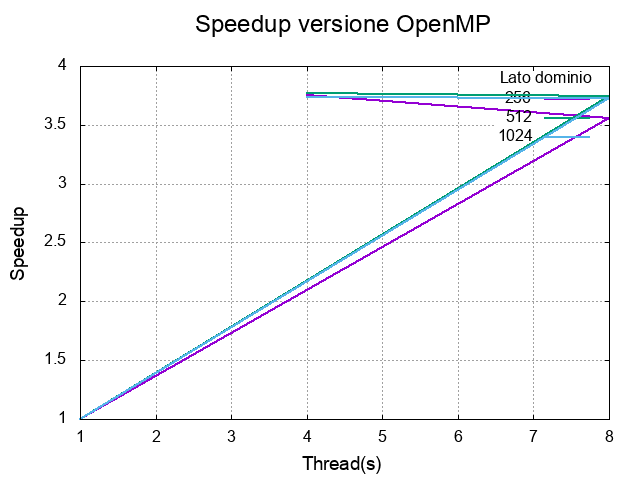
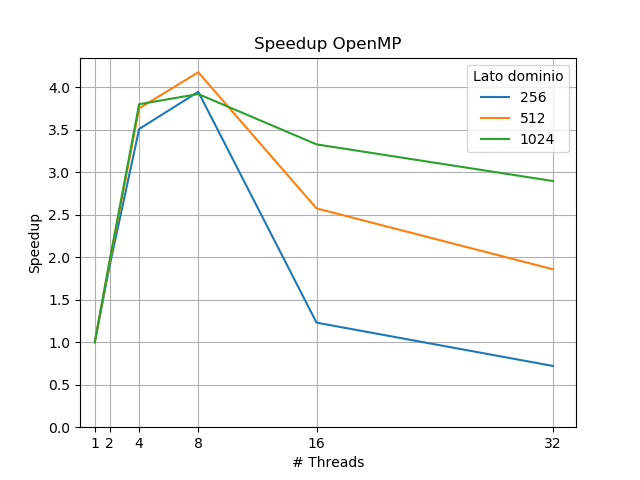
performance evaluation: refactoring; create plot script and graphs

diff --git a/project/src/hpc-perf-evaluation.py b/project/src/hpc-perf-evaluation.py
@@ -8,39 +8,39 @@ logging.basicConfig(level=logging.INFO)
 # executable variables
 exe_name = "omp-earthquake"
 steps = 100000
-# matrix_sides = [256, 512, 1024]
-matrix_sides = [256]
+matrix_sides = [256, 512, 1024]
+# matrix_sides = [256]
 
 # [1, 2, 4, 8, 16, 32, 64] threads used
-# threads = list(2**x for x in range(0,6))
-threads = [1, 8]
+threads = list(2**x for x in range(0, 6))
+# threads = [1, 8]
 
 # run the simulation N times and take the average execution time
-total_run = 2
+total_run = 5
 
 compute_weak = True
 weak_psize = 256
 
 # csv info
-timings_filename = "graphs/data/omp-timings-py.dat"
-speedup_filename = "graphs/data/omp-simulation-py.dat"
-strong_filename = "graphs/data/omp-strong-py.dat"
-weak_filename = "graphs/data/omp-weak-py.dat"
+timings_filename = "./data/omp-timings-py.csv"
+speedup_filename = "./data/omp-speedup-py.csv"
+strong_filename = "./data/omp-strong-py.csv"
+weak_filename = "./data/omp-weak-py.csv"
 
 
 def compute_weak_scaling():
     logging.info("###################### WEAK SCALING #######################")
-    for i in range(1, threads[len(threads) - 1] + 1):
+    for thread in range(1, 17):
         avg_exe_time = 0
         for k in range(1, total_run + 1):
             out_file = "/dev/null"
-            res_file = "res_weak{}_{}".format(i, k)
+            res_file = "./data/res_weak{}_{}".format(thread, k)
             # e(l($N0 * $N0 * $N0 * $p)/3)
-            p_size_weak = round(((weak_psize**3) * i)**(1. / 3.), 4)
-            logging.info("run #{}: L{}, {} thread".format(k, p_size_weak, i))
-            res_file = "res_weak{}_{}".format(i, k)
+            p_size_weak = round(weak_psize * (thread**(1. / 3.)), 4)
+            logging.info("run #{}: L{}, {} thread".format(
+                k, p_size_weak, thread))
             os.system("OMP_NUM_THREADS={} ./{} {} {} > {} 2>{}".format(
-                i, exe_name, steps, p_size_weak, out_file, res_file))
+                thread, exe_name, steps, p_size_weak, out_file, res_file))
             with open(res_file) as f:
                 for line in f:
                     if "parallel" in line:
@@ -51,24 +51,35 @@ def compute_weak_scaling():
                             k, avg_exe_time))
         avg_exe_time /= total_run
         logging.info("avg_exe_time = {}".format(avg_exe_time))
-        if i == 1:
+        if thread == 1:
             t_serial = avg_exe_time
             logging.info("t_serial = {}".format(t_serial))
-        weak_scaling[i] = round(float(t_serial / avg_exe_time), 4)
+        weak_scaling[thread] = round(float(t_serial / avg_exe_time), 4)
         logging.info("weak_scaling = {}".format(weak_scaling))
 
 
+weak_scaling = dict()
 compute_weak_scaling()
 
 avg_exe_time = dict()
 t_serial = dict()
 speedup = dict()
 strong_scaling = dict()
-weak_scaling = dict()
 for thread in threads:  # for each number of threads
     avg_exe_time[thread] = dict()
     speedup[thread] = dict()
     strong_scaling[thread] = dict()
+
+
+def get_execution_time(filename, regex):
+    exe_time = 0
+    with open(filename) as f:
+        for line in f:
+            if regex in line:
+                exe_time = float(line.split(':')[1].split(' ')[1])
+                logging.info("exe_time = {}".format(exe_time))
+    return exe_time
+
 
 # run speedup / strong
 logging.info("################## SPEEDUP & STRONG SCALING ###################")
@@ -77,64 +88,89 @@ for thread in threads:
         avg_exe_time[thread][side] = 0
         for n_run in range(1, total_run + 1):
             logging.info("run #{}: L{}, {} thread".format(n_run, side, thread))
-            out_file = "/dev/null"
-            res_file = "res{}_{}_{}".format(side, thread, n_run)
-            os.system("OMP_NUM_THREADS={} ./{} {} {} > {} 2>{}".format(
-                thread, exe_name, steps, side, out_file, res_file))
-            with open(res_file) as f:
-                for line in f:
-                    if "parallel" in line:
-                        exe_time = float(line.split(':')[1].split(' ')[1])
-                        logging.info("exe_time #{} = {}".format(
-                            n_run, exe_time))
-                        avg_exe_time[thread][side] += exe_time
-                        logging.info("avg_exe_time #{} = {}".format(
-                            n_run, avg_exe_time[thread][side]))
 
-        avg_exe_time[thread][side] /= total_run
-        avg_exe_time[thread][side] = round(avg_exe_time[thread][side], 4)
+            # run variables
+            out_file = "/dev/null"
+            res_file = "./data/res{}_{}_{}".format(side, thread, n_run)
+            cmd = "OMP_NUM_THREADS={} ./{} {} {} > {} 2>{}".format(
+                thread, exe_name, steps, side, out_file, res_file)
+
+            # execute run
+            os.system(cmd)
+
+            # get time
+            exe_time = get_execution_time(res_file, "parallel")
+            logging.info("exe_time #{} = {}".format(n_run, exe_time))
+            avg_exe_time[thread][side] += exe_time
+            logging.info("sum_avg_exe_time #{} = {}".format(
+                n_run, avg_exe_time[thread][side]))
+
+        avg_exe_time[thread][side] = round(
+            avg_exe_time[thread][side] / total_run, 4)
         logging.info("avg_exe_time = {}".format(avg_exe_time))
+
         if thread == 1:
             t_serial[side] = avg_exe_time[thread][side]
 
+        # speedup
         speedup[thread][side] = round(
             float(t_serial[side] / avg_exe_time[thread][side]), 4)
         logging.info("speedup = {}".format(speedup))
 
+        # strong scaling
         strong_scaling[thread][side] = round(
             float(speedup[thread][side] / thread), 4)
         logging.info("strong_scaling = {}".format(strong_scaling))
 
 logging.info("####################### SAVING TO FILE ########################")
-with open(timings_filename, mode='w') as timings_file:
-    timings_fieldnames = ['THREAD']
-    timings_fieldnames += matrix_sides
-    timings_writer = csv.DictWriter(timings_file, timings_fieldnames)
-    timings_writer.writeheader()
-    for thread in threads:
-        row = avg_exe_time[thread]
-        row["THREAD"] = thread
-        timings_writer.writerow(row)
 
-with open(speedup_filename, mode='w') as speedup_file:
-    speedup_fieldnames = ['THREAD']
-    speedup_fieldnames += matrix_sides
-    speedup_writer = csv.DictWriter(speedup_file, speedup_fieldnames)
-    speedup_writer.writeheader()
-    for thread in threads:
-        row = speedup[thread]
-        row["THREAD"] = thread
-        speedup_writer.writerow(row)
 
-with open(strong_filename, mode='w') as strong_file:
-    strong_fieldnames = ['THREAD']
-    strong_fieldnames += matrix_sides
-    strong_writer = csv.DictWriter(strong_file, strong_fieldnames)
-    strong_writer.writeheader()
-    for thread in threads:
-        row = strong_scaling[thread]
-        row["THREAD"] = thread
-        strong_writer.writerow(row)
+def save(column_headers, filename, data):
+    with open(filename, mode='w') as f:
+        headers = ["THREAD"]
+        headers += column_headers
+        writer = csv.DictWriter(f, headers)
+        writer.writeheader()
+        for thread in threads:
+            row = data[thread]
+            row["THREAD"] = thread
+            writer.writerow(row)
+
+
+save(matrix_sides, timings_filename, avg_exe_time)
+save(matrix_sides, speedup_filename, speedup)
+save(matrix_sides, strong_filename, strong_scaling)
+# save(["WEAK"], weak_filename, weak_scaling)
+
+# with open(timings_filename, mode='w') as timings_file:
+#     timings_fieldnames = ['THREAD']
+#     timings_fieldnames += matrix_sides
+#     timings_writer = csv.DictWriter(timings_file, timings_fieldnames)
+#     timings_writer.writeheader()
+#     for thread in threads:
+#         row = avg_exe_time[thread]
+#         row["THREAD"] = thread
+#         timings_writer.writerow(row)
+#
+# with open(speedup_filename, mode='w') as speedup_file:
+#     speedup_fieldnames = ['THREAD']
+#     speedup_fieldnames += matrix_sides
+#     speedup_writer = csv.DictWriter(speedup_file, speedup_fieldnames)
+#     speedup_writer.writeheader()
+#     for thread in threads:
+#         row = speedup[thread]
+#         row["THREAD"] = thread
+#         speedup_writer.writerow(row)
+#
+# with open(strong_filename, mode='w') as strong_file:
+#     strong_fieldnames = ['THREAD']
+#     strong_fieldnames += matrix_sides
+#     strong_writer = csv.DictWriter(strong_file, strong_fieldnames)
+#     strong_writer.writeheader()
+#     for thread in threads:
+#         row = strong_scaling[thread]
+#         row["THREAD"] = thread
+#         strong_writer.writerow(row)
 
 with open(weak_filename, mode='w') as weak_file:
     weak_fieldnames = ['p', 'WEAK']

diff --git a/project/src/plot-weak.py b/project/src/plot-weak.py
@@ -3,8 +3,8 @@
 import matplotlib.pyplot as plt
 import numpy as np
 
-in_file = "./data/omp-speedup-py.csv"
-out_file = "./graphs/omp-speedup.png"
+in_file = "./data/omp-weak-py.csv"
+out_file = "./graphs/omp-weak.png"
 
 # Read in csv. Use names=True to also store column headers
 per_data = np.genfromtxt(in_file, delimiter=',', names=True)
@@ -13,14 +13,11 @@ per_data = np.genfromtxt(in_file, delimiter=',', names=True)
 # skip that one
 for name in per_data.dtype.names[1:]:
     # Set the line's label to the column name
-    plt.plot(per_data['THREAD'], per_data[name], label=name)
-
-# Add a legend
-plt.legend(loc=0, title='Lato dominio')
+    plt.plot(per_data['p'], per_data[name], label=name)
 
 plt.xlabel('# Threads')
-plt.ylabel('Speedup')
-plt.title('Speedup OpenMP')
+plt.ylabel('Weak scaling')
+plt.title('Weak scaling OpenMP')
 plt.grid()
 
 # show origin
@@ -28,9 +25,9 @@ plt.xlim(left=0)
 plt.ylim(bottom=0)
 
 # axis ticks
-plt.xticks(per_data['THREAD'])
+plt.xticks(per_data['p'])
 
-# plt.show()  # DEBUG
+plt.show()  # DEBUG
 
 # save to file
-plt.savefig(out_file)
+# plt.savefig(out_file)

diff --git a/project/src/plot-timings.py b/project/src/plot-timings.py
@@ -1,10 +1,10 @@
 #!/usr/bin/env python3
-
-import matplotlib.pyplot as plt
 import numpy as np
+import matplotlib.pyplot as plt
+import csv
 
-in_file = "./data/omp-speedup-py.csv"
-out_file = "./graphs/omp-speedup.png"
+in_file = "./data/omp-timings-py.csv"
+out_file = "./graphs/omp-timings.png"
 
 # Read in csv. Use names=True to also store column headers
 per_data = np.genfromtxt(in_file, delimiter=',', names=True)
@@ -19,8 +19,8 @@ for name in per_data.dtype.names[1:]:
 plt.legend(loc=0, title='Lato dominio')
 
 plt.xlabel('# Threads')
-plt.ylabel('Speedup')
-plt.title('Speedup OpenMP')
+plt.ylabel('Secondi')
+plt.title('Tempistiche OpenMP')
 plt.grid()
 
 # show origin
@@ -30,7 +30,4 @@ plt.ylim(bottom=0)
 # axis ticks
 plt.xticks(per_data['THREAD'])
 
-# plt.show()  # DEBUG
-
-# save to file
-plt.savefig(out_file)
+plt.show()

diff --git a/project/src/plot-strong.py b/project/src/plot-strong.py
@@ -3,8 +3,8 @@
 import matplotlib.pyplot as plt
 import numpy as np
 
-in_file = "./data/omp-speedup-py.csv"
-out_file = "./graphs/omp-speedup.png"
+in_file = "./data/omp-strong-py.csv"
+out_file = "./graphs/omp-strong.png"
 
 # Read in csv. Use names=True to also store column headers
 per_data = np.genfromtxt(in_file, delimiter=',', names=True)
@@ -19,8 +19,8 @@ for name in per_data.dtype.names[1:]:
 plt.legend(loc=0, title='Lato dominio')
 
 plt.xlabel('# Threads')
-plt.ylabel('Speedup')
-plt.title('Speedup OpenMP')
+plt.ylabel('Strong scaling')
+plt.title('Strong scaling OpenMP')
 plt.grid()
 
 # show origin

diff --git a/project/src/plot-simulation.py b/project/src/plot-simulation.py
@@ -3,8 +3,8 @@ import numpy as np
 import matplotlib.pyplot as plt
 import csv
 
-in_file = "./data/cuda-simulation.dat"
-out_file = "./graphs/cuda-earthquake.png"
+in_file = "./data/omp-simulation.dat"
+out_file = "./graphs/omp-earthquake.png"
 
 x = []
 y1 = []
